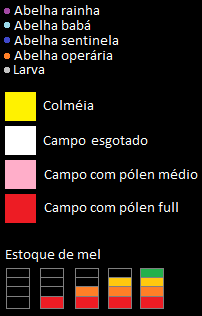
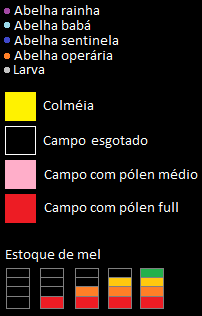
Fixing honey and pollen fields exibition
Fixing honey and pollen fields exibition

Changed region(s): [[0.0297, 0.3987, 0.1782, 0.5127]]

diff --git a/src/env/model/Hive.java b/src/env/model/Hive.java
@@ -12,8 +12,7 @@ import model.exception.InsufficientPollenException;
 
 public class Hive {
 	private static Hive instance;
-//	private static int maxHoney = 1000;
-	private static int maxPollen = 1000;
+	private static int maxHoney = Parameters.MAX_HIVE_HONEY;
 
 	private int temperature;
 
@@ -32,13 +31,13 @@ public class Hive {
 	}
 	
 	public HoneySupply getStatus() {
-		if (pollen < maxPollen * Parameters.HIVE_SUPPLY_EMPTY)
+		if (honey < maxHoney * Parameters.HIVE_SUPPLY_EMPTY)
 			return HoneySupply.EMPTY;
-		else if (pollen < maxPollen * Parameters.HIVE_SUPPLY_LOW)
+		else if (honey < maxHoney * Parameters.HIVE_SUPPLY_LOW)
 			return HoneySupply.LOW;
-		else if (pollen < maxPollen * Parameters.HIVE_SUPPLY_MEDIUM)
+		else if (honey < maxHoney * Parameters.HIVE_SUPPLY_MEDIUM)
 			return HoneySupply.MEDIUM;
-		else if (pollen < maxPollen * Parameters.HIVE_SUPPLY_HIGH)
+		else if (honey < maxHoney * Parameters.HIVE_SUPPLY_HIGH)
 			return HoneySupply.HIGH;
 		else
 			return HoneySupply.FULL;

diff --git a/src/env/artifact/Parameters.java b/src/env/artifact/Parameters.java
@@ -11,8 +11,10 @@ public class Parameters {
 	public static final int AVERAGE_TEMPERATURE = 25;
 	public static final int EXTERNAL_TEMPERATURE_START = 25;
 	public static final int TERMIC_AMPLITUDE = 10;	
-	public static final int HONEY_START = 100;
+	
 	public static final int POLLEN_START = 100;
+	public static final int HONEY_START = 100;
+	public static final int MAX_HIVE_HONEY = 1000;
 	
 	public static final long DELAY_MOVE_OPERATION = 20;
 	public static final int AMMOUNT_BEE_COLLECT_POLLEN = 10;

diff --git a/src/env/model/enumeration/PollenSupply.java b/src/env/model/enumeration/PollenSupply.java
@@ -5,14 +5,14 @@ import javafx.scene.paint.Color;
 public enum PollenSupply {
 	LOW, MEDIUM, HIGH;
 	
-	private static Color colorWhite = Color.web("white", 1);
+	private static Color colorBlack = Color.web("black", 1);
 	private static Color colorPink = Color.web("pink", 1);
 	private static Color colorRed = Color.web("red", 1);
 
 	public Color getColor() {
 		switch (this) {
 		case LOW:
-			return colorWhite;
+			return colorBlack;
 		case MEDIUM:
 			return colorPink;
 		default:

diff --git a/src/env/graphic/Environment.java b/src/env/graphic/Environment.java
@@ -345,8 +345,6 @@ public class Environment {
 	}
 
 	public void updateHoney(HoneySupply statusBefore, HoneySupply statusAfter) {
-		
-		
 		if (!statusBefore.equals(statusAfter)) {
 			JavaFXConcurrent.getInstance().addUpdate(new Runnable() {
 				@Override
